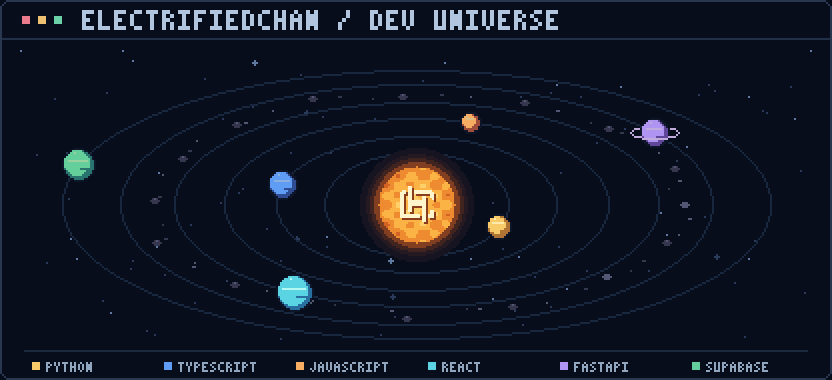
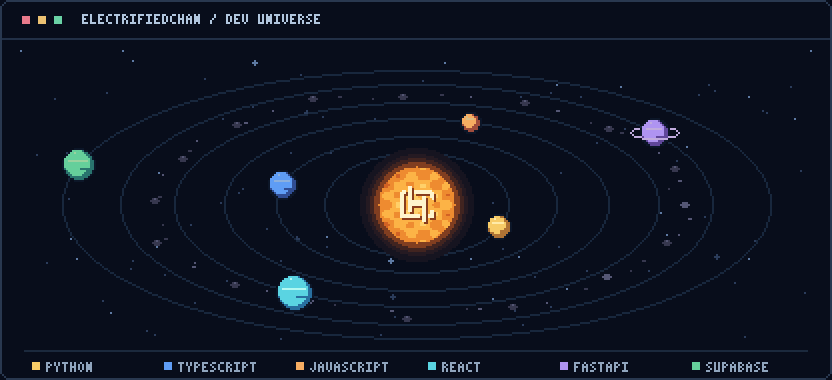
feat(solar-system): Refine text positioning and rendering in dev universe scene
- Adjust "ELECTRIFIEDCHAN / DEV UNIVERSE" text Y position from 5 to 7 for better vertical centering
- Remove scale=2 parameter to use default text rendering size for improved consistency
- Update solar-system.gif animation asset with refined text positioning
- Update solar-system-static.png static asset to match new text layout
- Improves visual alignment and readability of the profile header scene

Changed region(s): [[0.0938, 0.0289, 0.6875, 0.0868]]

diff --git a/scripts/build_profile_art.py b/scripts/build_profile_art.py
@@ -171,7 +171,7 @@ def scene(logo: Image.Image, frame: int) -> Image.Image:
     draw.line((1, 19, WIDTH - 2, 19), fill=(34, 48, 71))
     for x, color in ((11, (233, 122, 139)), (19, (236, 193, 114)), (27, (106, 210, 166))):
         draw.rectangle((x, 8, x + 3, 11), fill=color)
-    text(draw, "ELECTRIFIEDCHAN / DEV UNIVERSE", 41, 5, (177, 198, 222), scale=2)
+    text(draw, "ELECTRIFIEDCHAN / DEV UNIVERSE", 41, 7, (177, 198, 222))
     draw.line((12, 175, WIDTH - 13, 175), fill=(27, 41, 61))
     for index, (name, _, _, _, colors, *_rest) in enumerate(WORLDS):
         x = 16 + index * 66
